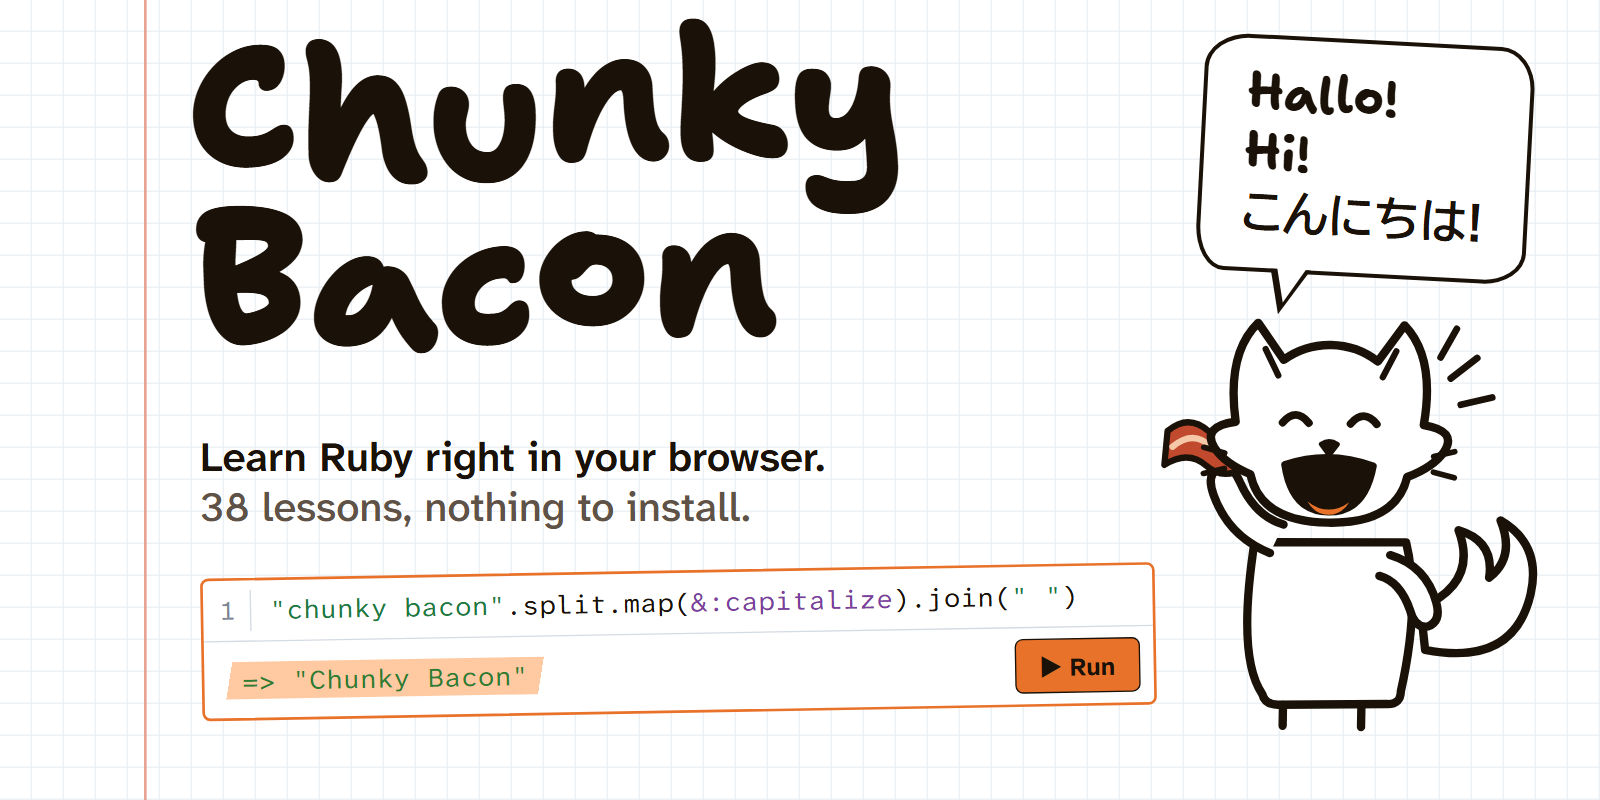
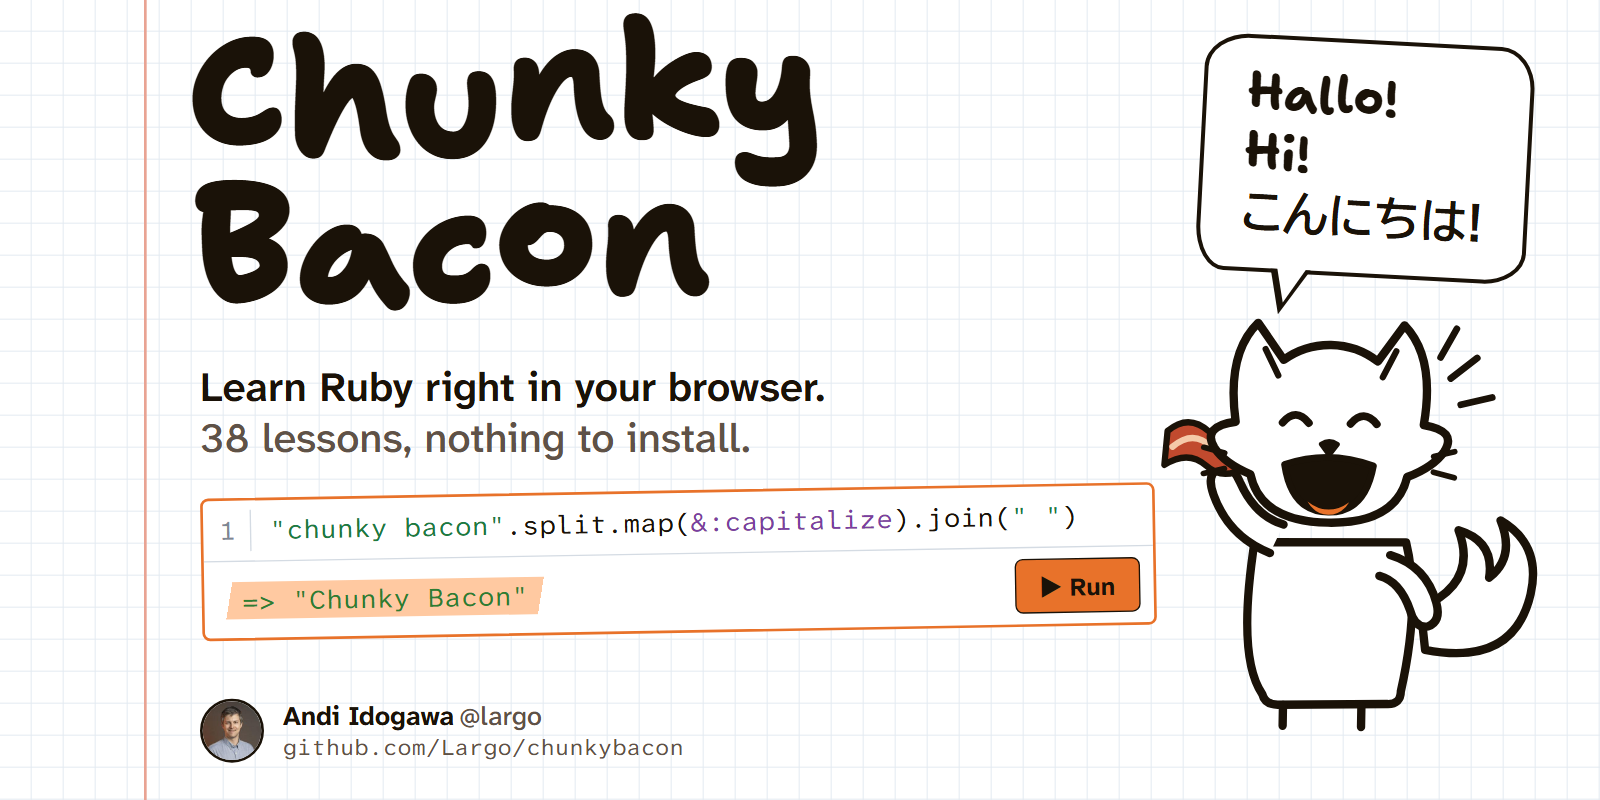
Social cards: the author's byline and the repository
Avatar, name, handle and github.com/Largo/chunkybacon along the bottom of the page, where you sign an exercise book - on both cards. The avatar is the one on the other project cards (docs/social/avatar.jpg); the wordmark, tagline and cell moved up to make room.

Changed region(s): [[0.125, 0.4688, 0.7188, 0.9688], [0.0938, 0.0, 0.5625, 0.4375]]

diff --git a/docs/social/card.html b/docs/social/card.html
@@ -29,17 +29,19 @@
     --grid: 24px;
     /* the stage: 1200 units wide, scaled to 1600 pixels */
     --stage-h: 675px;
-    --word-top: 40px;  --word-size: 150px;
-    --tag-top: 372px;
-    --cell-top: 492px;
+    --word-top: 30px;  --word-size: 144px;
+    --tag-top: 348px;
+    --cell-top: 460px;
+    --by-top: 603px;
     --fox-top: 252px;  --fox-size: 410px;
     --bubble-top: 64px;
   }
   html.github {
     --stage-h: 600px;
-    --word-top: 26px;  --word-size: 140px;
-    --tag-top: 324px;
-    --cell-top: 434px;
+    --word-top: 22px;  --word-size: 124px;
+    --tag-top: 272px;
+    --cell-top: 374px;
+    --by-top: 524px;
     --fox-top: 196px;  --fox-size: 392px;
     --bubble-top: 30px;
   }
@@ -154,6 +156,27 @@
     background: var(--fox);
   }
 
+  /* who made it and where it lives, along the bottom of the page - where
+     you sign an exercise book */
+  .byline {
+    position: absolute;
+    left: 150px;
+    top: var(--by-top);
+    display: flex;
+    align-items: center;
+    gap: 14px;
+  }
+  .byline img {
+    width: 48px;
+    height: 48px;
+    border-radius: 50%;
+    border: 2px solid var(--ink);
+    object-fit: cover;
+  }
+  .byline .name { font-weight: 700; font-size: 20px; line-height: 1.2; }
+  .byline .handle { font-weight: 500; color: var(--ink-soft); margin-left: 4px; }
+  .byline .repo { font-family: "Atkinson Hyperlegible Mono", monospace; font-size: 17px; color: var(--ink-soft); }
+
   .fox {
     position: absolute;
     left: 800px;
@@ -212,6 +235,11 @@
   <div class="cell">
     <div class="code"><span class="gutter">1</span><span class="line"><span class="s">"chunky bacon"</span>.split.map(<span class="y">&amp;:capitalize</span>).join(<span class="s">" "</span>)</span></div>
     <div class="toolbar"><span class="result">=&gt; "Chunky Bacon"</span><span class="run">▶ Run</span></div>
+  </div>
+
+  <div class="byline">
+    <img src="avatar.jpg" alt="">
+    <div><div class="name">Andi Idogawa<span class="handle">@largo</span></div><div class="repo">github.com/Largo/chunkybacon</div></div>
   </div>
 
   <div class="bubble">Hallo!<br>Hi!<br><span class="ja">こんにちは!</span></div>
